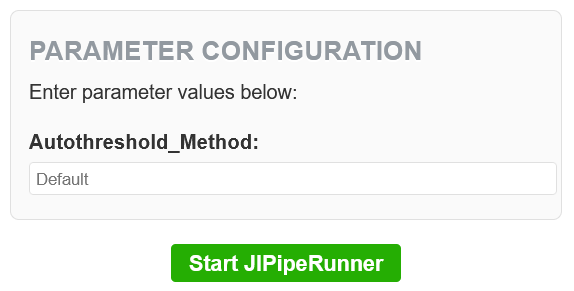
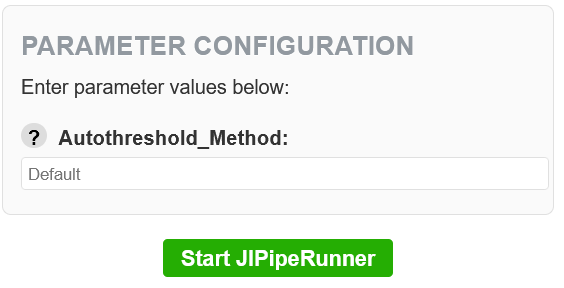
Added a tooltip that is displayed when hover the ? besides parameter names.

diff --git a/JIPipeRunner/templates/JIPipeRunner/dataset_input.html b/JIPipeRunner/templates/JIPipeRunner/dataset_input.html
@@ -188,6 +188,47 @@
     #center_container {
       right: 399px;
     }
+
+    .tooltip-container {
+    display: flex;
+    align-items: center;
+    gap: 8px;
+  }
+
+  .tooltip {
+    position: relative;
+    display: inline-block;
+    width: 17px;
+    height: 17px;
+    background-color: #ddd;
+    color: black;
+    border-radius: 50%;
+    text-align: center;
+    font-weight: bold;
+    cursor: pointer;
+    font-size: 13px;
+    line-height: 17px;
+    align-self: baseline;
+  }
+
+  .tooltip:hover::after {
+    content: attr(data-tooltip);
+    position: absolute;
+    bottom: 110%;
+    left: 50%;
+    background-color: #333;
+    color: #fff;
+    padding: 6px 8px;
+    border-radius: 4px;
+    white-space: nowrap;
+    z-index: 1;
+    font-size: 12px;
+    box-shadow: 0 2px 6px rgba(0, 0, 0, 0.2);
+    text-align: left;
+    white-space: normal; /* allow wrapping */
+    width: max-content;
+    max-width: 325px;
+  }
   </style>
 </head>
 <body>
@@ -345,14 +386,27 @@
         const groups = paramsMetadata['exported-parameters']['parameter-reference-groups'];
         groups.forEach(group => {
           group.content.forEach(item => {
+            // Get the name and path of the node
             const [uuid, paramKey] = item.path.split('/');
             paramKeyByNodeUuid[uuid] = paramKey;
             const defaultValue = nodesMap[uuid]?.[paramKey] || '';
             const fieldId = `param-${uuid}`;
+
+            // Get the clean description of the parameter
+            const raw_description = item['custom-description'] || '';
+            const tempDiv = document.createElement("div");
+            tempDiv.innerHTML = raw_description;
+            let html_free_description = tempDiv.textContent || tempDiv.innerText || "No description set in project overview.";
+            let description = html_free_description.replace(/\n/g, ' ').replace(/\s+/g, ' ').trim();
+
+            // Construct the input field
             const row = document.createElement('div');
             row.className = 'input-row';
             row.innerHTML = `
-              <label for="${fieldId}">${item['custom-name']}:</label>
+            <div class="tooltip-container">
+              <div class="tooltip" data-tooltip="${description}">?</div>
+                <label for="${fieldId}">${item['custom-name']}:</label>
+              </div>
               <input type="text"
                      id="${fieldId}"
                      name="${item['custom-name']}"

diff --git a/README.md b/README.md
@@ -100,7 +100,9 @@ If the JIPipe pipeline follows the [pipeline design constraints](#pipeline-desig
 
 ![Parameter config section](./assets/images/ParameterConfigSection.png)
 
-This section contains the input fields of the parameters that are defined as reference parameters within the .jip file. Depending on the node and parameter type that is referenced, the input fields accept integers, floats and strings as input. Below it you will find the ***Start JIPipeRunner*** button.
+This section contains the input fields of the parameters that are defined as reference parameters within the .jip file. Depending on the node and parameter type that is referenced, the input fields accept integers, floats or strings as input. When hovering the **?** the plugin will display a tooltip with the description of the respective parameter (if it was set in the [project overview](https://jipipe.hki-jena.de/documentation/project-overview.html)).
+
+Below this section you will find the ***Start JIPipeRunner*** button to execute the attached .jip file.
 
 ### LOG WINDOW
 
